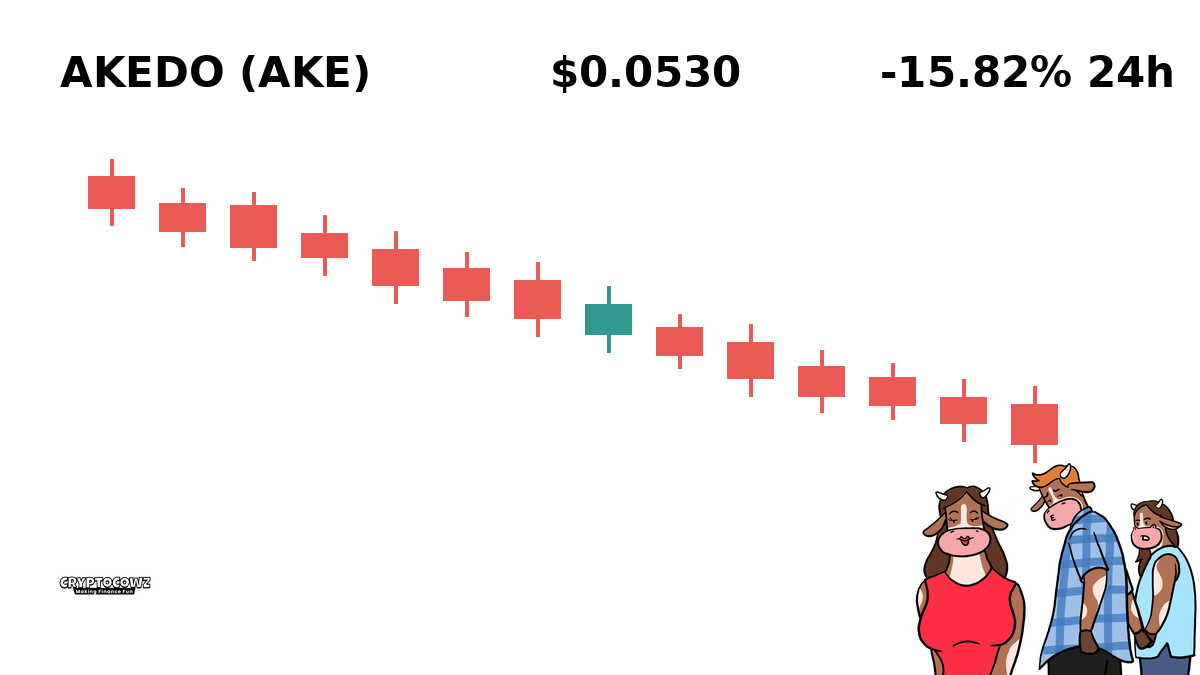
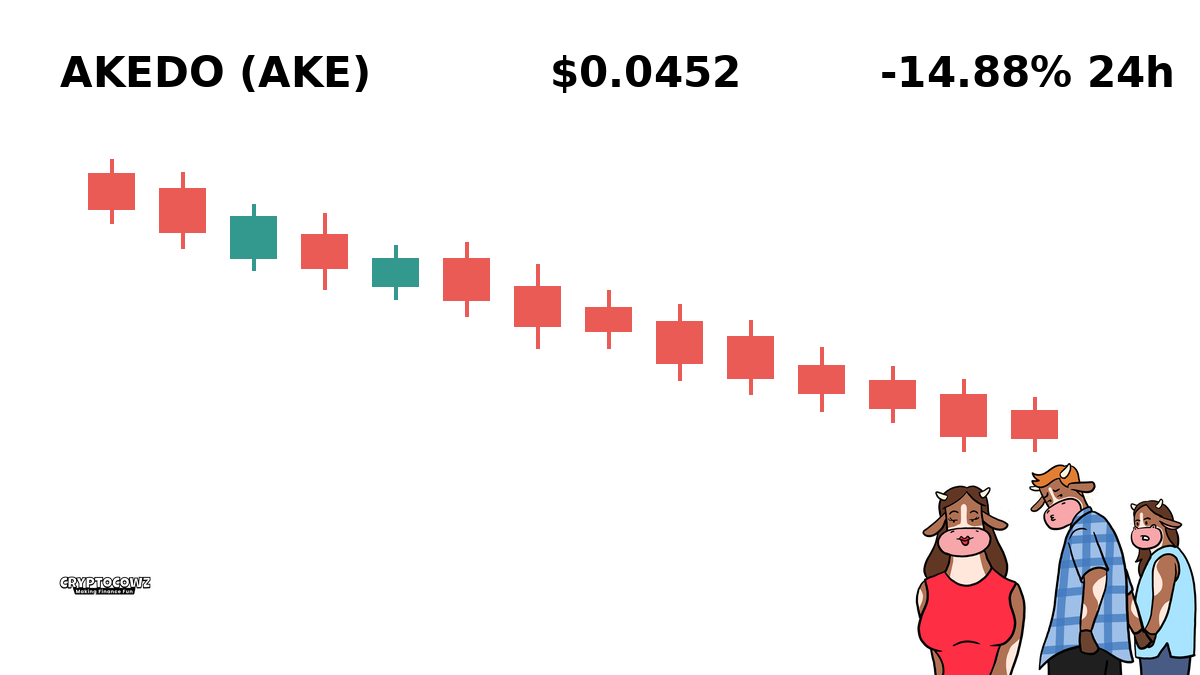
Auto-generate daily 10 CMC graphics & cleanup old images [skip ci]

diff --git a/output/cmc_prompts_latest.md b/output/cmc_prompts_latest.md
@@ -1,81 +1,81 @@
 # Daily Top Movers: CMC Community Visuals & Posts
 
-## 1. Bitcoin Cash ($BCH) — +21.95% (PUMP)
-**Cast Member:** Skip Zinfandel
-**CMC Comment:** Satoshi's real vision just paid for my second jet ski, complete with extra cup holders for core maxi tears.
+## 1. Lighter ($LIT) — +13.33% (PUMP)
+**Cast Member:** Frank Rizzo
+**CMC Comment:** Up 13% and I've already put a down payment on a second jet ski I don't know how to ride. Never selling, generational wealth is literally days away!
 
-![BCH Graphic](images/01_PUMP_BCH.png)
+![LIT Graphic](images/01_PUMP_LIT.png)
 
 ---
 
-## 2. NEAR Protocol ($NEAR) — +8.5% (PUMP)
+## 2. Bitway ($BTW) — +10.94% (PUMP)
+**Cast Member:** Skip Zinfandel
+**CMC Comment:** Bitway is pumping so hard my second mortgage is starting to look like a stroke of sheer financial genius. We are taking this rocket straight to the top, boys!
+
+![BTW Graphic](images/02_PUMP_BTW.png)
+
+---
+
+## 3. Sky ($SKY) — +9.13% (PUMP)
 **Cast Member:** Professor Hartmut
-**CMC Comment:** The algorithmic alignment of user-friendly sharding is finally yielding retail exuberance, or perhaps just another irrational spike.
+**CMC Comment:** An unexpected 9% surge in SKY, clearly validating my algorithmic thesis that irrational exuberance always triumphs over basic arithmetic.
 
-![NEAR Graphic](images/02_PUMP_NEAR.png)
-
----
-
-## 3. Quant ($QNT) — +8.04% (PUMP)
-**Cast Member:** Frank Rizzo
-**CMC Comment:** Interoperability sounds real fancy, but all I know is my leverage position isn't blowing up today.
-
-![QNT Graphic](images/03_PUMP_QNT.png)
+![SKY Graphic](images/03_PUMP_SKY.png)
 
 ---
 
-## 4. Bittensor ($TAO) — +7.31% (PUMP)
+## 4. Pudgy Penguins ($PENGU) — +8.68% (PUMP)
 **Cast Member:** Sunshine Innocent Nimbus
-**CMC Comment:** The AI cows are singing in perfect harmony, bringing decentralized intelligence and sweet green candles to the pasture!
+**CMC Comment:** Look at the cute little flightless birds going up! I bought ten thousand of them because penguins are nice and now we're all going to be rich forever!
 
-![TAO Graphic](images/04_PUMP_TAO.png)
+![PENGU Graphic](images/04_PUMP_PENGU.png)
 
 ---
 
-## 5. Ethereum Classic ($ETC) — +4.6% (PUMP)
+## 5. Bitcoin Cash ($BCH) — +7.44% (PUMP)
 **Cast Member:** Skip Zinfandel
-**CMC Comment:** Code is law, and the law clearly states I am legally required to pop champagne on every four percent pump.
+**CMC Comment:** Bitcoin Cash back in green, proved all the haters wrong for the forty-seventh time this year! Time to order the top-shelf champagne!
 
-![ETC Graphic](images/05_PUMP_ETC.png)
+![BCH Graphic](images/05_PUMP_BCH.png)
 
 ---
 
-## 6. Arbitrum ($ARB) — -6.29% (DUMP)
+## 6. Avalanche ($AVAX) — -7.31% (DUMP)
 **Cast Member:** Frank Rizzo
-**CMC Comment:** Layer 2 transaction speed doesn't help when your portfolio value drops straight to zero in record time.
+**CMC Comment:** Down 7% on Avalanche and my wife's lawyer just called. It's fine, it's just a healthy consolidation down into a completely empty bank account.
 
-![ARB Graphic](images/06_DUMP_ARB.png)
+![AVAX Graphic](images/06_DUMP_AVAX.png)
 
 ---
 
-## 7. Ether.fi ($ETHFI) — -6.37% (DUMP)
+## 7. Worldcoin ($WLD) — -7.49% (DUMP)
 **Cast Member:** Professor Hartmut
-**CMC Comment:** Liquid restaking appears to have restaked itself directly into liquid insolvency for late adopters.
+**CMC Comment:** Scanning your eyeballs for a token that loses 7% of its value in a day seems like an inefficient trade off for human dignity.
 
-![ETHFI Graphic](images/07_DUMP_ETHFI.png)
+![WLD Graphic](images/07_DUMP_WLD.png)
 
 ---
 
-## 8. Sky ($SKY) — -6.92% (DUMP)
+## 8. Pepe ($PEPE) — -8.73% (DUMP)
 **Cast Member:** Sunshine Innocent Nimbus
-**CMC Comment:** The sky isn't falling, it's just offering us a discount on cloud-based hopes and peaceful dreams!
+**CMC Comment:** The sad green frog is falling again, but I'm holding his hand all the way down to zero because true friendship isn't about profit.
 
-![SKY Graphic](images/08_DUMP_SKY.png)
+![PEPE Graphic](images/08_DUMP_PEPE.png)
 
 ---
 
-## 9. Akedo ($AKE) — -11.09% (DUMP)
+## 9. Pump.fun ($PUMP) — -8.91% (DUMP)
 **Cast Member:** Frank Rizzo
-**CMC Comment:** Down double digits again, time to tell my landlord I am in it strictly for the revolutionary gaming utility.
+**CMC Comment:** Irony at its finest: Pump.fun dumps 9% and now my fun is completely ruined along with my credit score.
 
-![AKE Graphic](images/09_DUMP_AKE.png)
+![PUMP Graphic](images/09_DUMP_PUMP.png)
 
 ---
 
-## 10. MemeCore ($M) — -11.9% (DUMP)
-**Cast Member:** Skip Zinfandel
-**CMC Comment:** Turns out buying a coin named after a single letter was slightly less sophisticated than my financial advisor advised.
+## 10. Akedo ($AKE) — -14.88% (DUMP)
+**Cast Member:** Professor Hartmut
+**CMC Comment:** A 14% drop in Akedo provides an empirical demonstration of gravitational collapse applied to speculative internet coupons.
 
-![M Graphic](images/10_DUMP_M.png)
+![AKE Graphic](images/10_DUMP_AKE.png)
 
 ---
